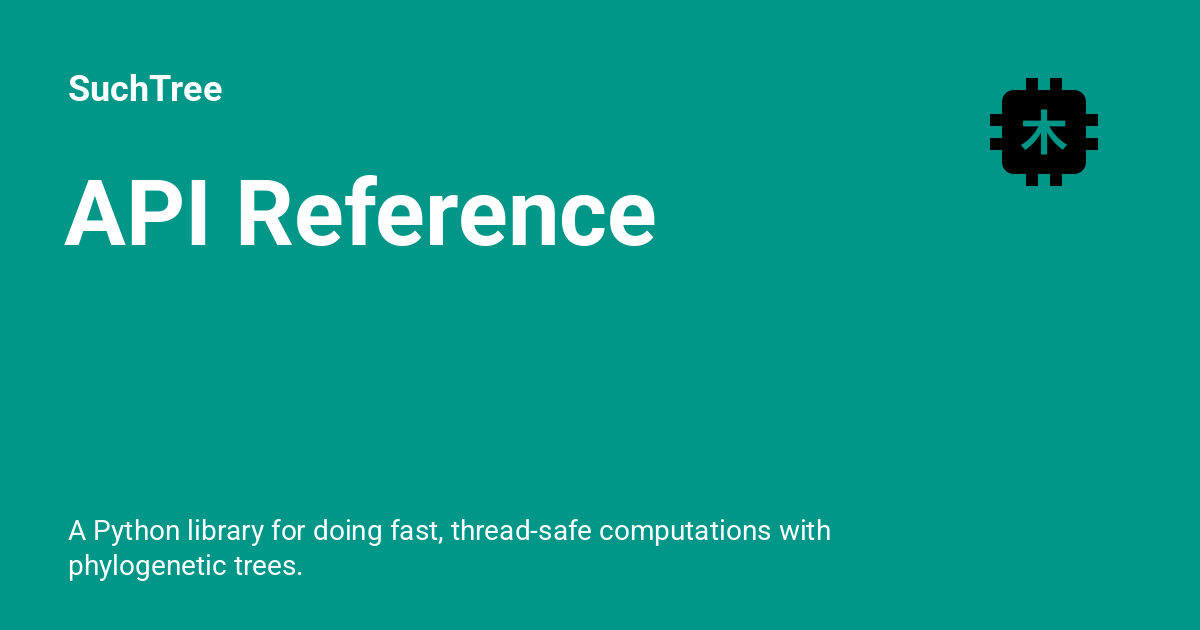
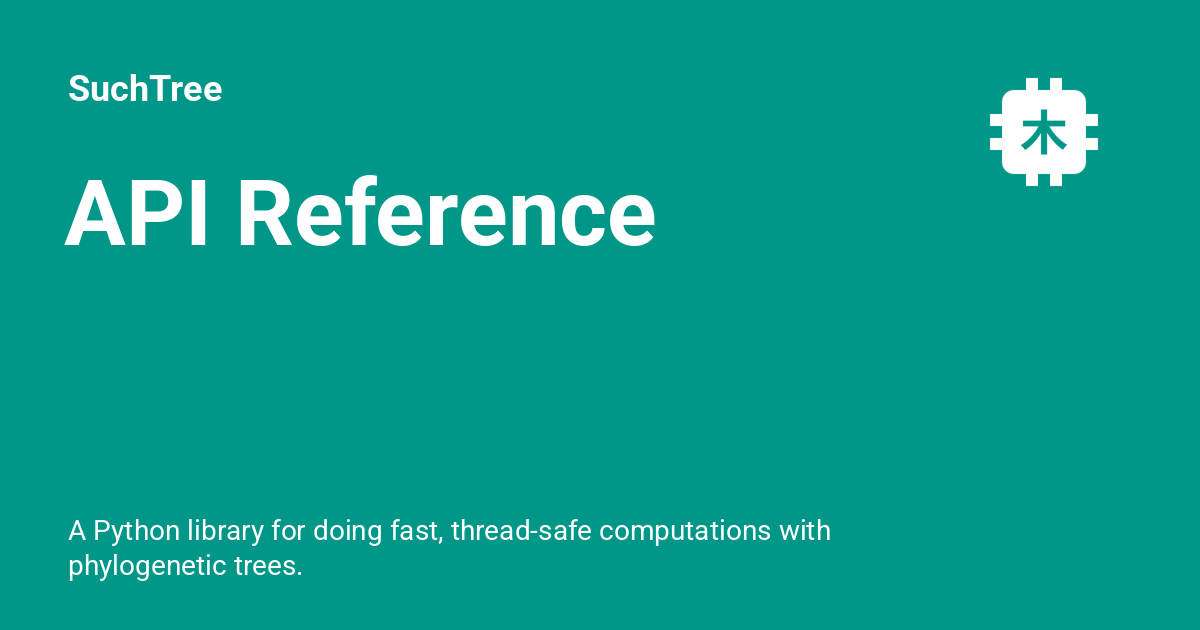
deploy: 26c11f5e8e233d270cc9c542ac21a82c7c5dc4f1

Changed region(s): [[0.8017, 0.1206, 0.925, 0.3016]]

diff --git a/stylesheets/extra.css b/stylesheets/extra.css
@@ -4,12 +4,6 @@
   --md-accent-fg-color: #ab47bc;
 }
 
-/* Make logo inherit theme text color */
-.md-header__button.md-logo img,
-.md-header__button.md-logo svg {
-  filter: brightness(0) saturate(100%) invert(100%);
-}
-
 /* Make code blocks more prominent */
 .highlight pre {
   border-radius: 0.5rem;
